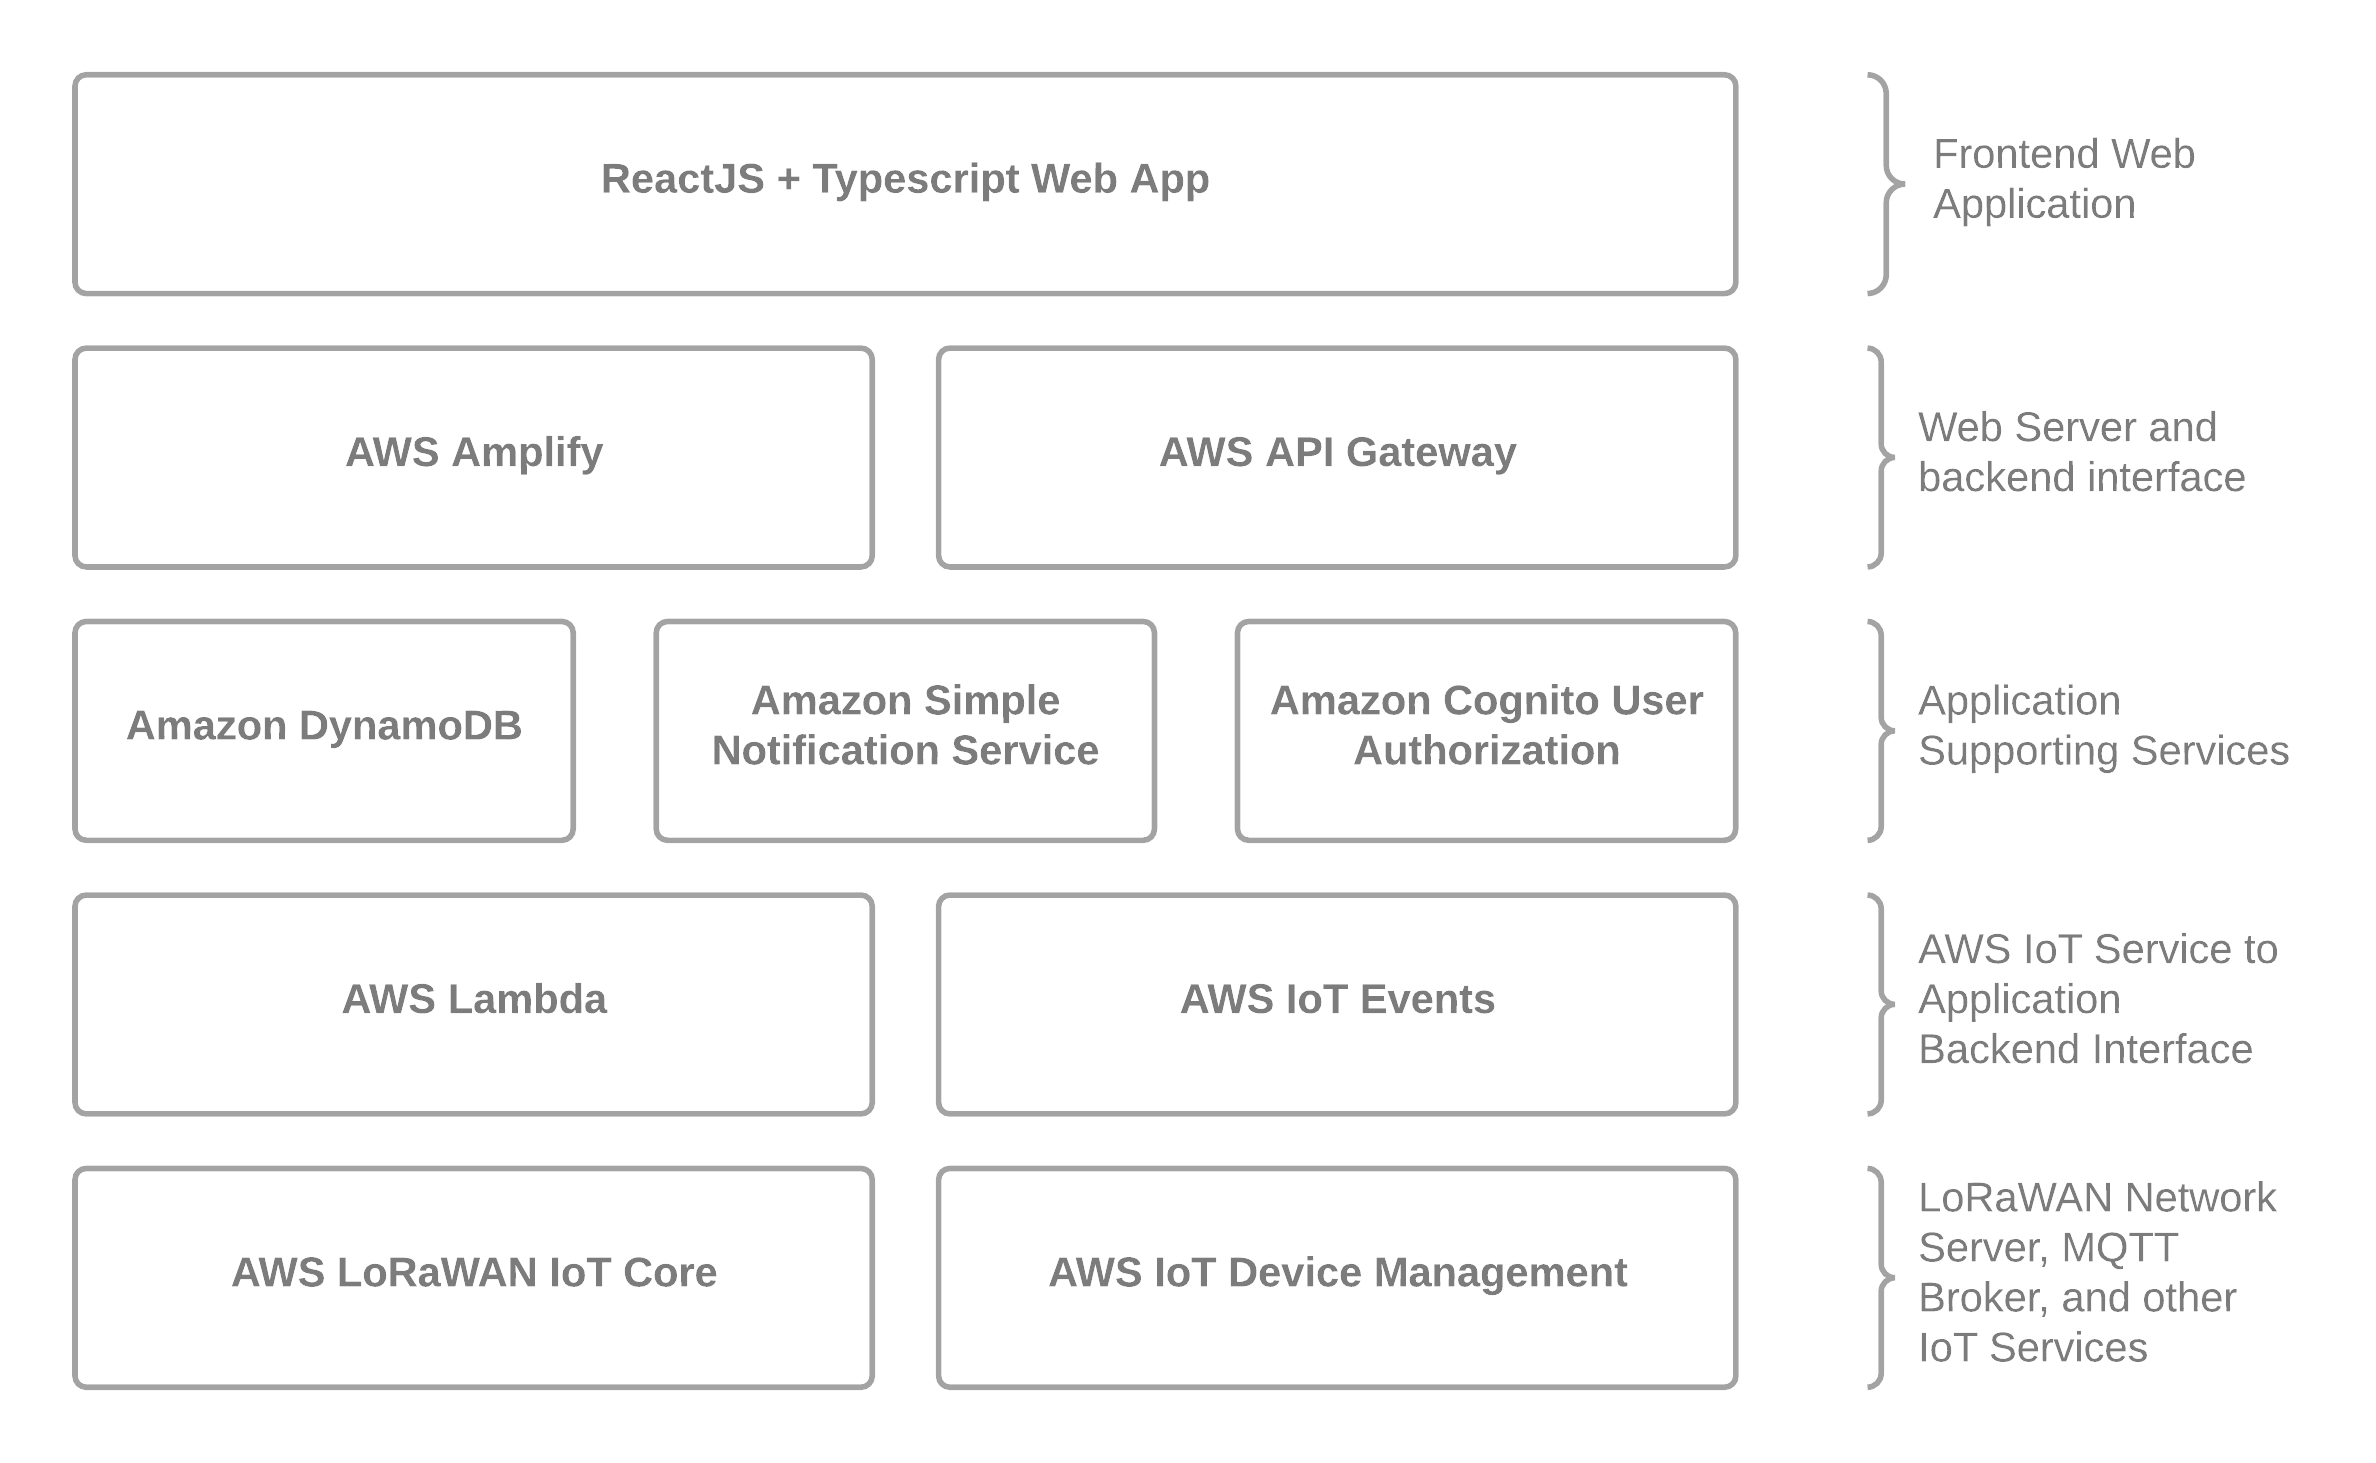
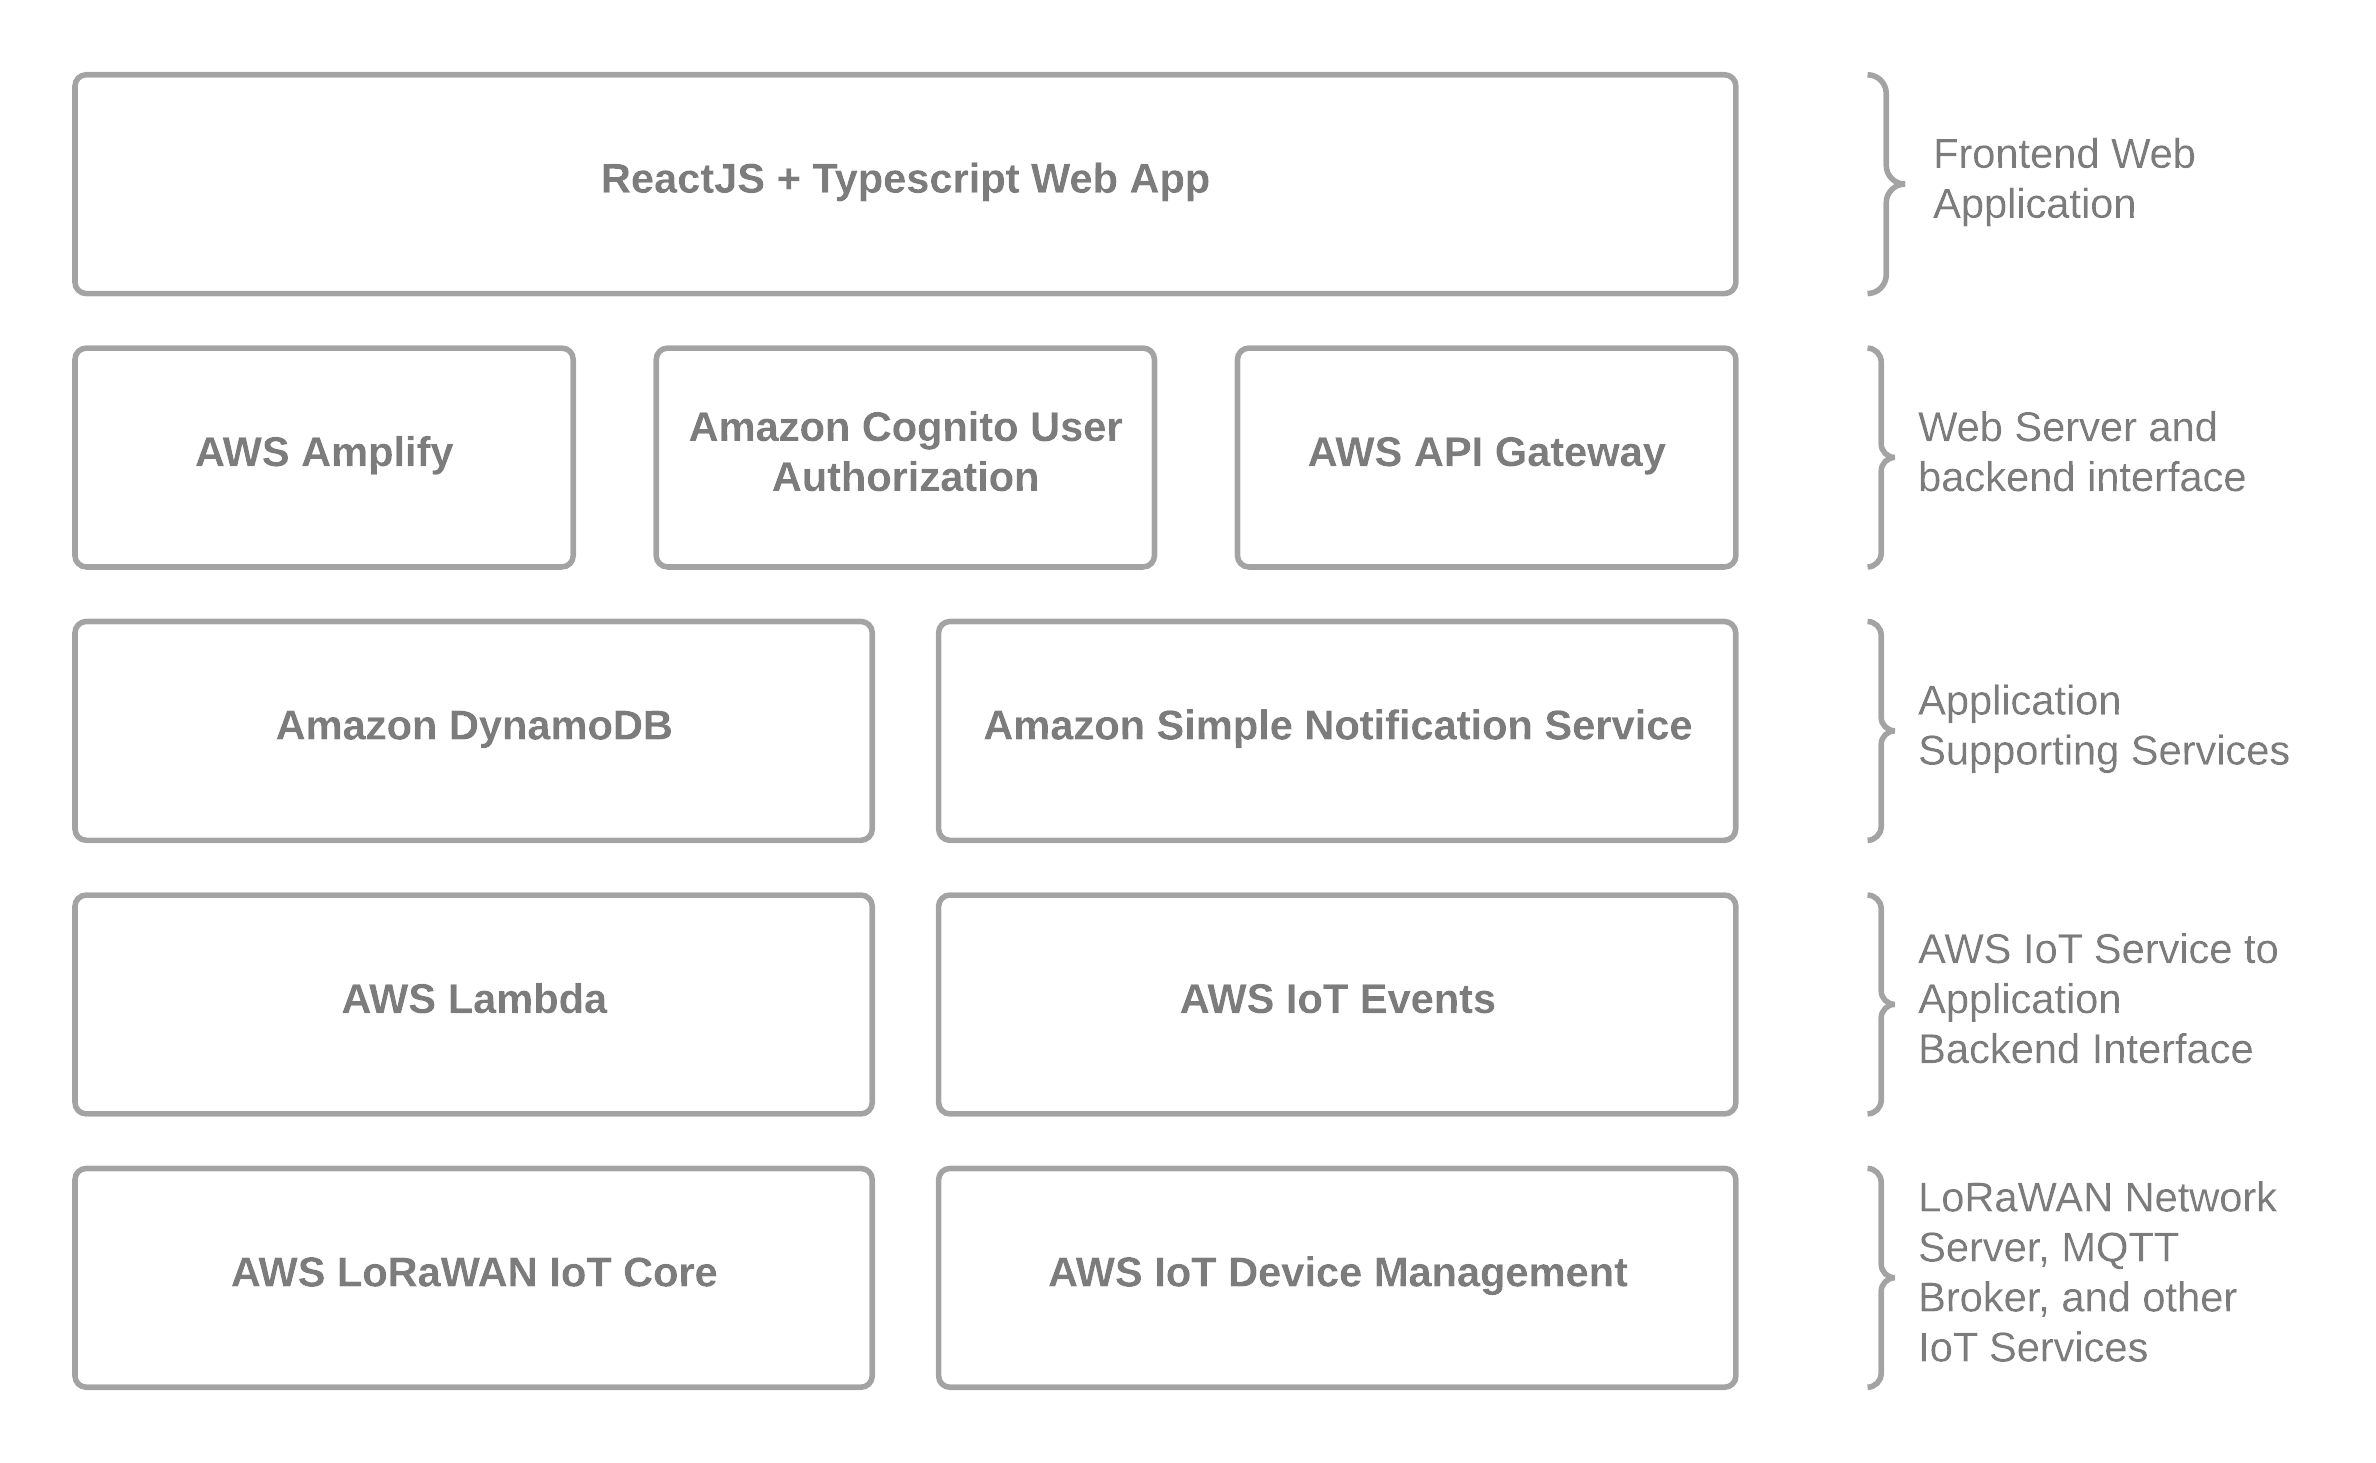
Started webapp section
- Fixed not escaping _ causing monospaced font to be the default
- Added new web prototype figure
- Updated server stack figure
- Changed section names

diff --git a/sections/design/subsections/webapp.tex b/sections/design/subsections/webapp.tex
@@ -1,2 +1,17 @@
-\subsection{Server Application Software}
-On our AWS server instance, we will be hosting a web application to view the data and air quality information collected from the network of sensor nodes. We will be designing this web application using the JavaScript framework, ReactJS.
+\subsection{The Web Application}
+We will be utilizing AWS' Amplify Console to host our web application which will allow users to view
+the data and air quality information collected from the network of sensor nodes. We will be
+designing this web application using the JavaScript framework, ReactJS, along with Typescript. Users
+will be able to view one or many sensor data map overlays, and can toggle specific overlays, such as
+\sdo or \ndo to hide or view them simultaneously. An account won't be required to view sensor data,
+but an account will be required to setup a personal node. Users that are owners of sensor nodes will
+be able to manage their devices, get detailed status information, and control them remotely through
+a graphical (web) user interface or text console. A prototype of how the website might generally
+look is shown in figure \ref{fig:website-prototype-map}. 
+
+\begin{figure}
+    \centering
+    \includegraphics[scale=0.4]{webapp-prototype}
+    \caption{Website Map View Prototype}
+    \label{fig:website-prototype-map} 
+\end{figure}

diff --git a/sections/design/subsections/server.tex b/sections/design/subsections/server.tex
@@ -1,11 +1,11 @@
-\subsection{Server}
+\subsection{The Server Application}
 As previously mentioned, the backend will be utilizing Amazon Web Services. To keep the design as
 simple as possible, all required services will be using AWS, especially since all of the services
 integrated very nicely with one another. In order to allow our LoRaWAN devices to communicate to the
 backend, they will need to connect to a LoRaWAN Network Server, and have that talk to the rest of
 our services. AWS provides multiple services relating to IoT, specifically LoRaWAN.
 
-\subsubsection{The Web Application Software Stack}
+\subsubsection{The Backend Application Software Stack}
 The front facing user web application will be the main way of interfacing and managing the nodes, as
 well as viewing the measured data in a visual and graphical format. The application will need to
 allow the user to login, and manage their own nodes. They should also be able to remotely control
